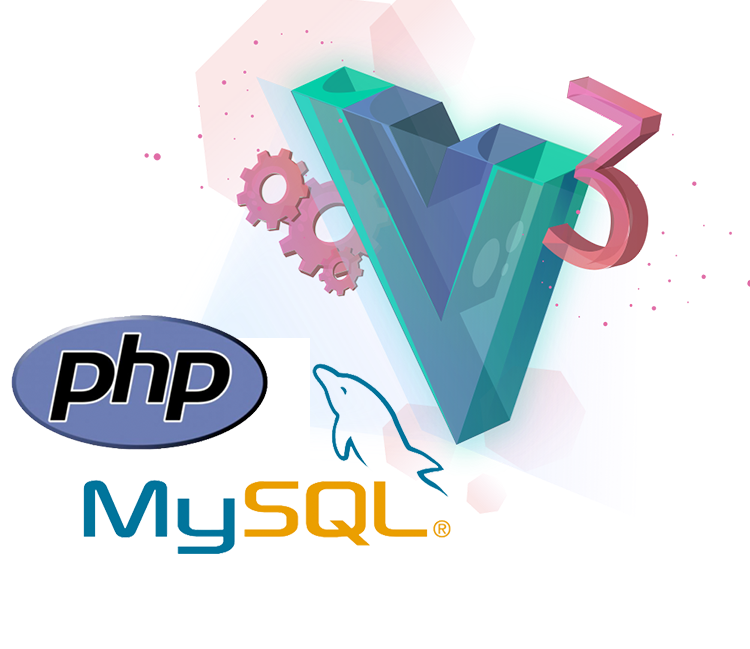
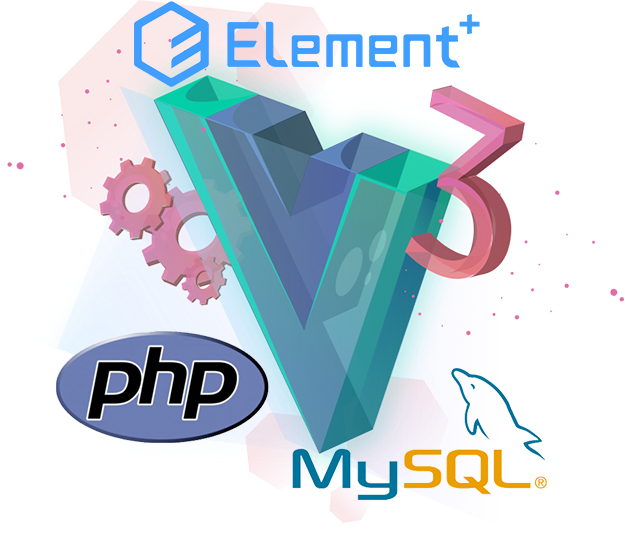
favicon和项目介绍图片更新

diff --git a/src/views/about/index.vue b/src/views/about/index.vue
@@ -49,14 +49,16 @@ const src = require('@/assets/tech_img.png')
 .about-img {
   position: absolute;
   right: -80px;
-  width: 750px;
+  width: 796.073px;
   height: 100%;
+  z-index: 0;
 }
 
 .txt-introduce {
   position: absolute;
   left: 20px;
   height: 100%;
+  z-index: 1;
 }
 
 .image-slot {
